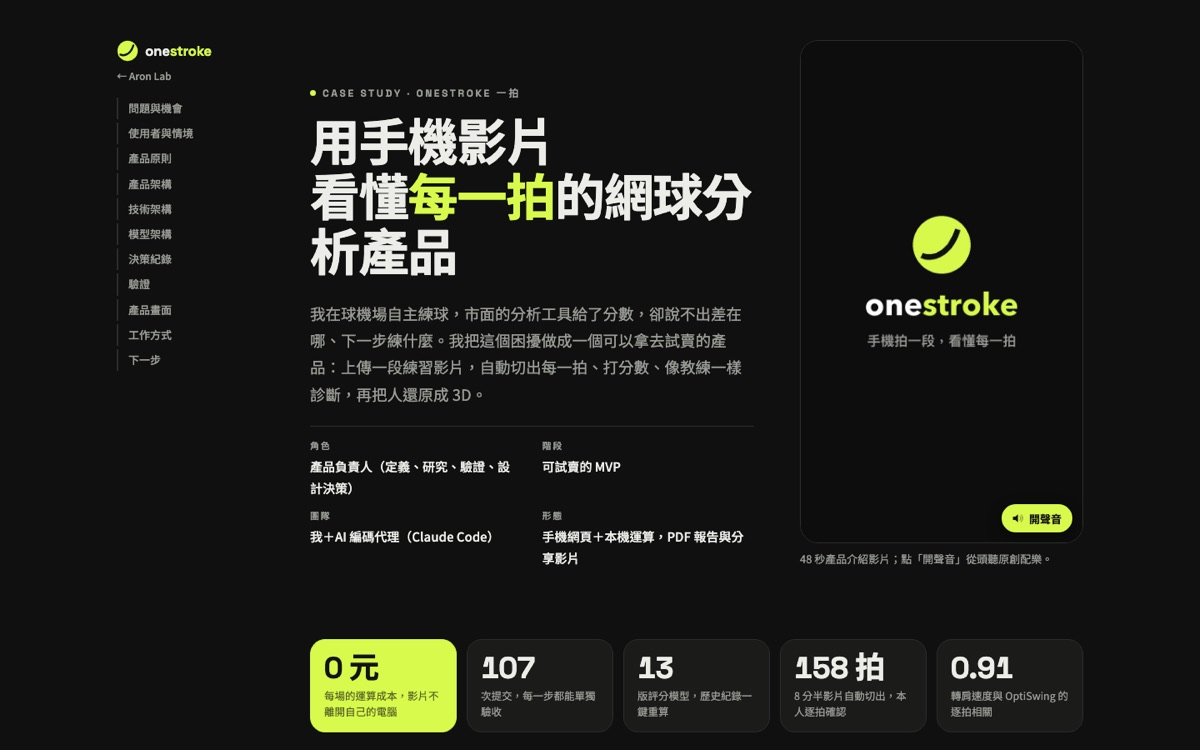
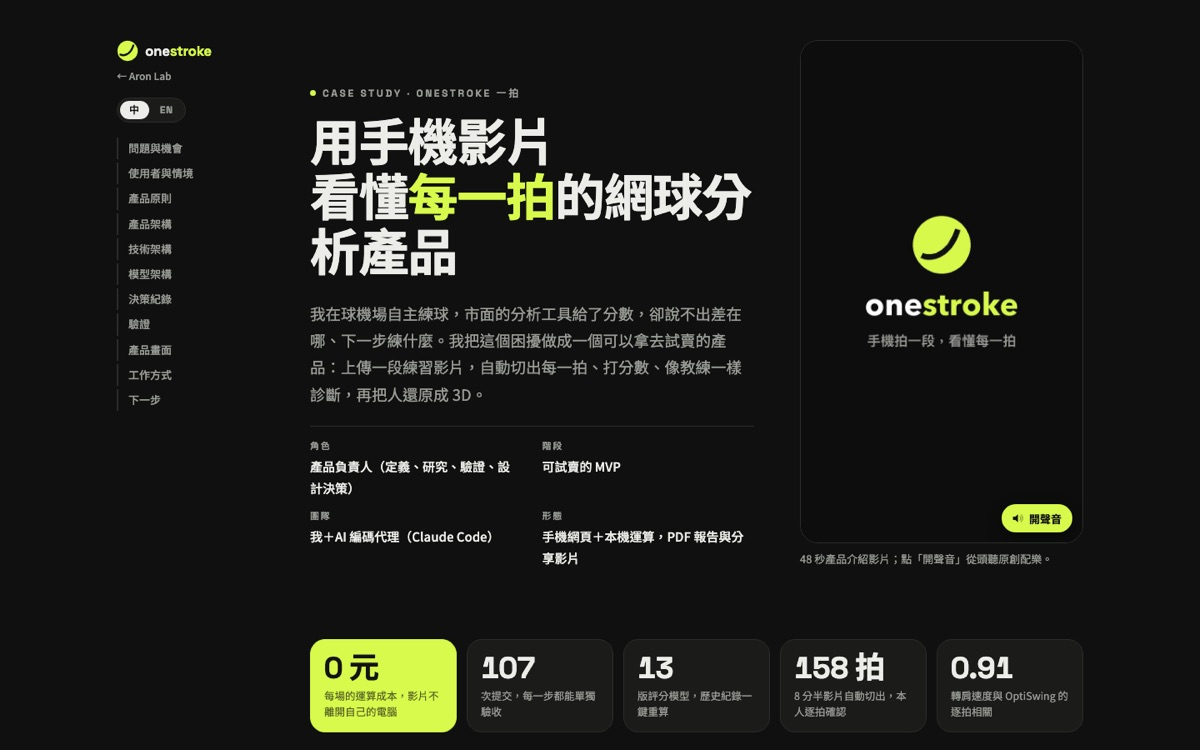
OneStroke 案例中英文封面；Signal Tower 有英文版了；封面腳本不再無聲停下
- 重拍 onestroke-case（目錄多了中／EN）、新增 onestroke-case-en
- signals：拿掉 en.ui: 'zh'（同一個網址，?lang=en 開英文），章節「Action log」照網站改成「Log」
- tools/covers.sh：Chrome 截好圖但關閉時逾時會回傳 2，set -e 讓腳本什麼都不印就停了；改成看有沒有截到圖，並用自己的暫存設定檔

Changed region(s): [[0.0925, 0.1227, 0.1542, 0.552]]

diff --git a/data/lab.js b/data/lab.js
@@ -322,7 +322,7 @@ window.LAB = {
       desc: '兩個經回測驗證的策略：S1 4 小時通道突破、D 日線趨勢動能。網站畫出 K 線上的進出場與停損線、資金曲線、回撤、曝險、逐年報酬與交易紀錄；有要操作的指令時推播到手機。紙上交易的模擬紀錄，不是投資建議。',
       facts: ['20,000 USDT 紙上帳戶', '全部在雲端自動執行', '指令推播到手機'],
       en: {
-        zh: 'BTC Strategy Account', kind: 'Paper trading', cadence: 'Updates every 4 hours', sectionsLabel: 'Section', ui: 'zh',
+        zh: 'BTC Strategy Account', kind: 'Paper trading', cadence: 'Updates every 4 hours', sectionsLabel: 'Section',
         tagline: 'After every 4-hour candle closes, it tells you what the BTC strategy account does next.',
         desc: 'Two back-tested strategies: S1, a 4-hour channel breakout, and D, daily trend momentum. The site plots entries, exits and stop lines on the chart, plus the equity curve, drawdowns, exposure, yearly returns and the trade log, and pushes any action to my phone. Simulated paper-trading records, not investment advice.',
         facts: ['20,000 USDT paper account', 'Runs fully in the cloud', 'Actions pushed to my phone'],
@@ -340,7 +340,7 @@ window.LAB = {
         { n: '05', t: '風險', u: '#risk', en: 'Risk' },
         { n: '06', t: '報酬', u: '#returns', en: 'Returns' },
         { n: '07', t: '交易', u: '#trades', en: 'Trades' },
-        { n: '08', t: '紀錄', u: '#records', en: 'Action log' },
+        { n: '08', t: '紀錄', u: '#records', en: 'Log' },
         { n: '09', t: '說明', u: '#intro', en: 'About' },
       ],
       links: [
